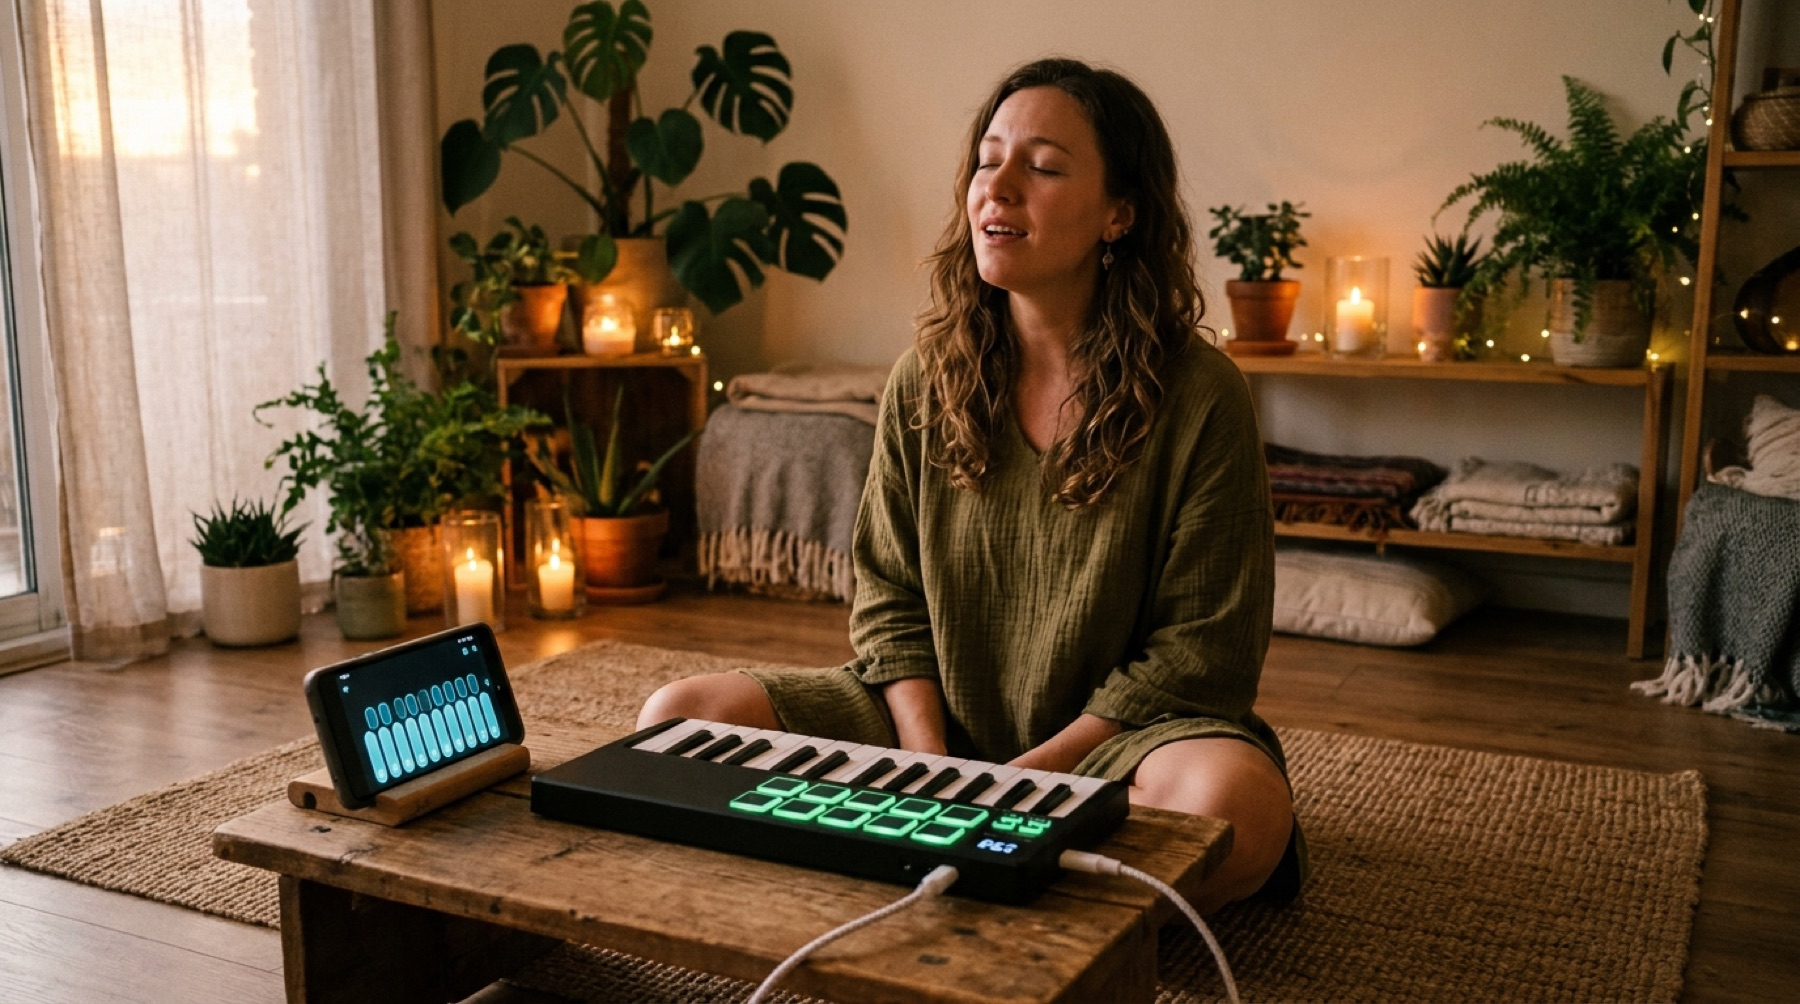
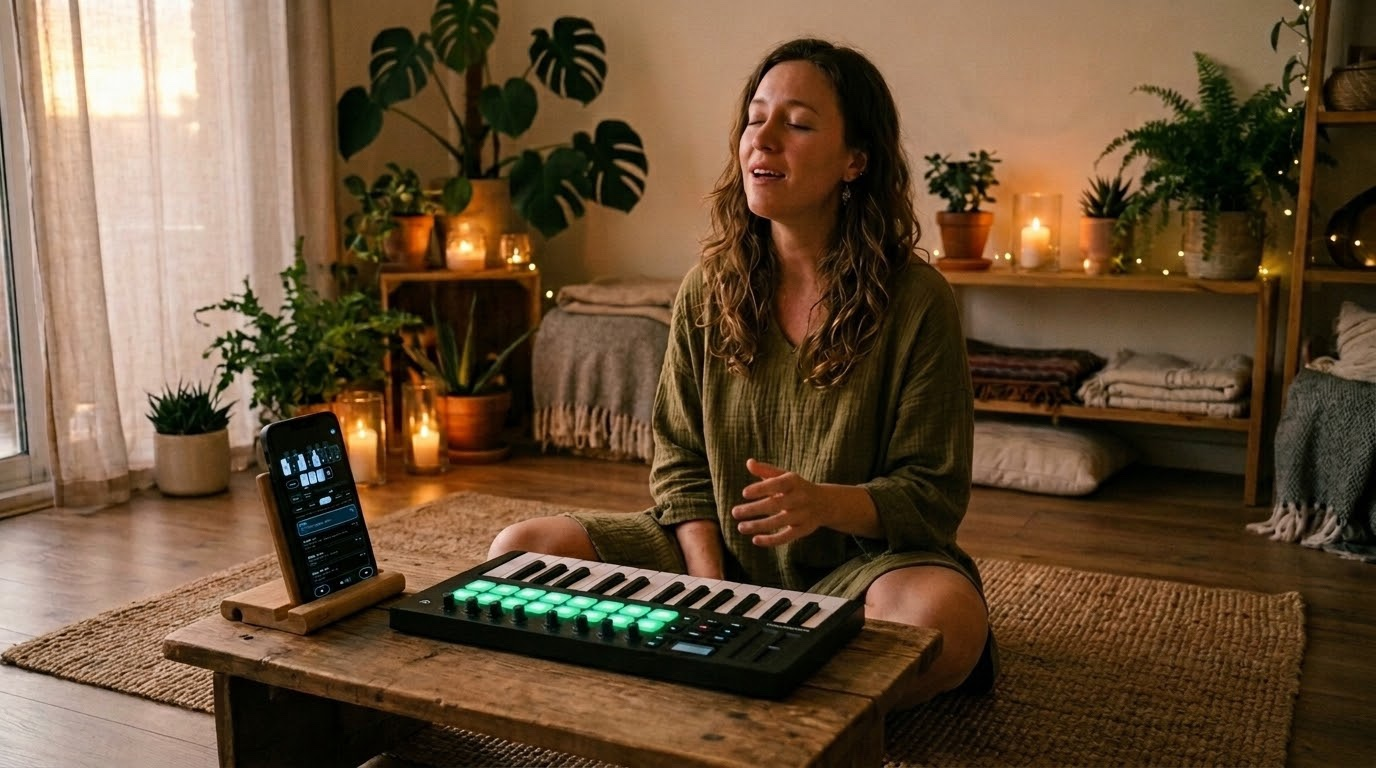
Page: the hero edited in imgtoimg.ai, play-and-charge with the metal StarTech 309B hub; requests' status (Marko 22.10.2026)
Claude-Session: https://claude.ai/code/session_01DdZiewUmJzmwntuWQCDjjh

diff --git a/site/public/index.html b/site/public/index.html
@@ -125,7 +125,7 @@
       <p class="note">Android 8 or newer. Free, no account, no ads, nothing collected. Your phone asks once to allow installing from your browser.</p>
     </div>
     <div class="hero-art">
-      <img class="life" src="img/lifestyle.jpg" alt="Singing over a drone, a small MIDI keyboard plugged into a phone that shows the shruti box">
+      <img class="life" src="img/lifestyle.jpg?v=2" alt="Singing over a drone, a small MIDI keyboard plugged into a phone that shows the shruti box">
       <img class="phone" src="img/screen-major.jpg" alt="The app: three valves glowing, the notes below them">
     </div>
   </div>
@@ -219,6 +219,26 @@
       </div>
       <div><img src="img/connection.jpg" alt="Connection: MIDI keyboard, one USB-C cable, Android phone" loading="lazy"></div>
     </div>
+
+    <div class="detail" id="charge">
+      <div>
+        <h3>Play for hours: charge while you play</h3>
+        <p>The phone has one USB-C port, and the keyboard takes it. To keep the phone charging through a long kirtan or a morning practice, put a small USB-C hub with <b>Power Delivery pass-through</b> between them.</p>
+        <ol class="steps">
+          <li>The hub's own cable goes into the <b>phone</b>.</li>
+          <li>The <b>MIDI keyboard</b> goes into one of the hub's data ports.</li>
+          <li>Your <b>USB-C charger</b> goes into the hub's PD port: the phone charges and powers the keyboard at the same time.</li>
+        </ol>
+      </div>
+      <div class="card" style="padding:24px">
+        <div class="kicker">The hub we use</div>
+        <h3 style="font-size:20px">StarTech 4-Port USB-C Hub, 309B-USBC-HUB</h3>
+        <p style="color:var(--muted);margin:6px 0 14px">Aluminium body, four USB-C ports (three for data at 10 Gbps, one for data or up to 100 W Power Delivery pass-through), a 20 cm braided cable. Small enough to live in the keyboard's bag.</p>
+        <p class="mono" style="color:var(--core);margin:0 0 16px">about €38 on Amazon.de (October 2026)</p>
+        <a class="btn" href="https://www.amazon.de/dp/B0H1X1G4LP" target="_blank" rel="noopener">See it on Amazon.de →</a>
+        <p class="note">Any USB-C hub with PD pass-through and USB-C data ports works the same way. Check the price on more than one site before you buy: identical hubs often cost twice as much.</p>
+      </div>
+    </div>
   </div>
 </section>
 
@@ -296,7 +316,7 @@
       <a href="https://en.wikipedia.org/wiki/Om_Namah_Shivaya">Om Namah Shivaya</a> ·
       <a href="https://en.wikipedia.org/wiki/Om_Mani_Padme_Hum">Om Mani Padme Hum</a> ·
       <a href="https://en.wikipedia.org/wiki/Shanti_Mantras">Shanti Mantras</a>.
-      Images of people are illustrations made with Google's Nano Banana.</p>
+      Images of people are illustrations made with Google's Nano Banana, the hero edited in imgtoimg.ai's AI Image Editor.</p>
   </div>
 </footer>
 </body>

diff --git a/momentaryupdates.md b/momentaryupdates.md
@@ -258,13 +258,17 @@
 
 > "Also, please edit the image. The image is great, but it has an extra cable going out of it that's wrong. There is only one USB-C cable at the top of the device, this one which is on the side. It's an AI error. Please fix it." — "I'm talking about lifestyle and hero image." (Marko, 22.10.2026)
 
-7. The hero lifestyle image: remove the extra cable; only the one USB-C cable, from the top of the keyboard to the phone.
+7. The hero lifestyle image: remove the extra cable; only the one USB-C cable, from the top of the keyboard to the phone. — **Done 22.10.2026:** Gemini edits and new generations kept a cable along the front; Marko edited the original in imgtoimg.ai's AI Image Editor himself; that image is the hero (published, checked byte for byte).
 
 > "Also, one part is missing. To charge the phone at the same time we're using the MIDI controller, I want to promote this device. Look at this." (Marko, 22.10.2026, with a screenshot of the StarTech 4-Port USB-C Hub HB31CM4CPD3: 4× USB-C, 10 Gbps, 100 W Power Delivery pass-through, 32 cm cable)
 
 > "Also find me alternatives to this device on Amazon Germany. You can open Amazon Germany with Chrome extension for Claude, and then you find the same device with metal build. This is plastic build. Power delivery is very important, and it's very important to have only USB-C ports. Find me an alternative." (Marko, 22.10.2026)
 
 > "Please learn from a repository called Elevate Media. When we do this kind of sheets for characters, sheets for props, sheets for spaces, and also pencil sketches, you need to work in this way. Give reference for everything you can even find web images of these devices so everything looks like in real life. You need to write references. Read all the manifest from that Elevate Media." (Marko, 22.10.2026)
+
+> "On the website we need to promote the right USB hub, which is the metal one and has a good price on Amazon. This one, the plastic one, is unfortunately a scam." (Marko, 22.10.2026)
+
+11. The page promotes the metal StarTech 309B-USBC-HUB (amazon.de, €37.81 on 22.10.2026), not the plastic HB31CM4CPD3. — **Done 22.10.2026:** section "Play for hours: charge while you play" with the three-step hookup and the amazon.de link; the plastic hub is not named.
 
 10. Images are made the Elevate Media way: reference sheets (characters, props, spaces, pencil sketches), real web photos of the devices as references, and the references written down.
 
